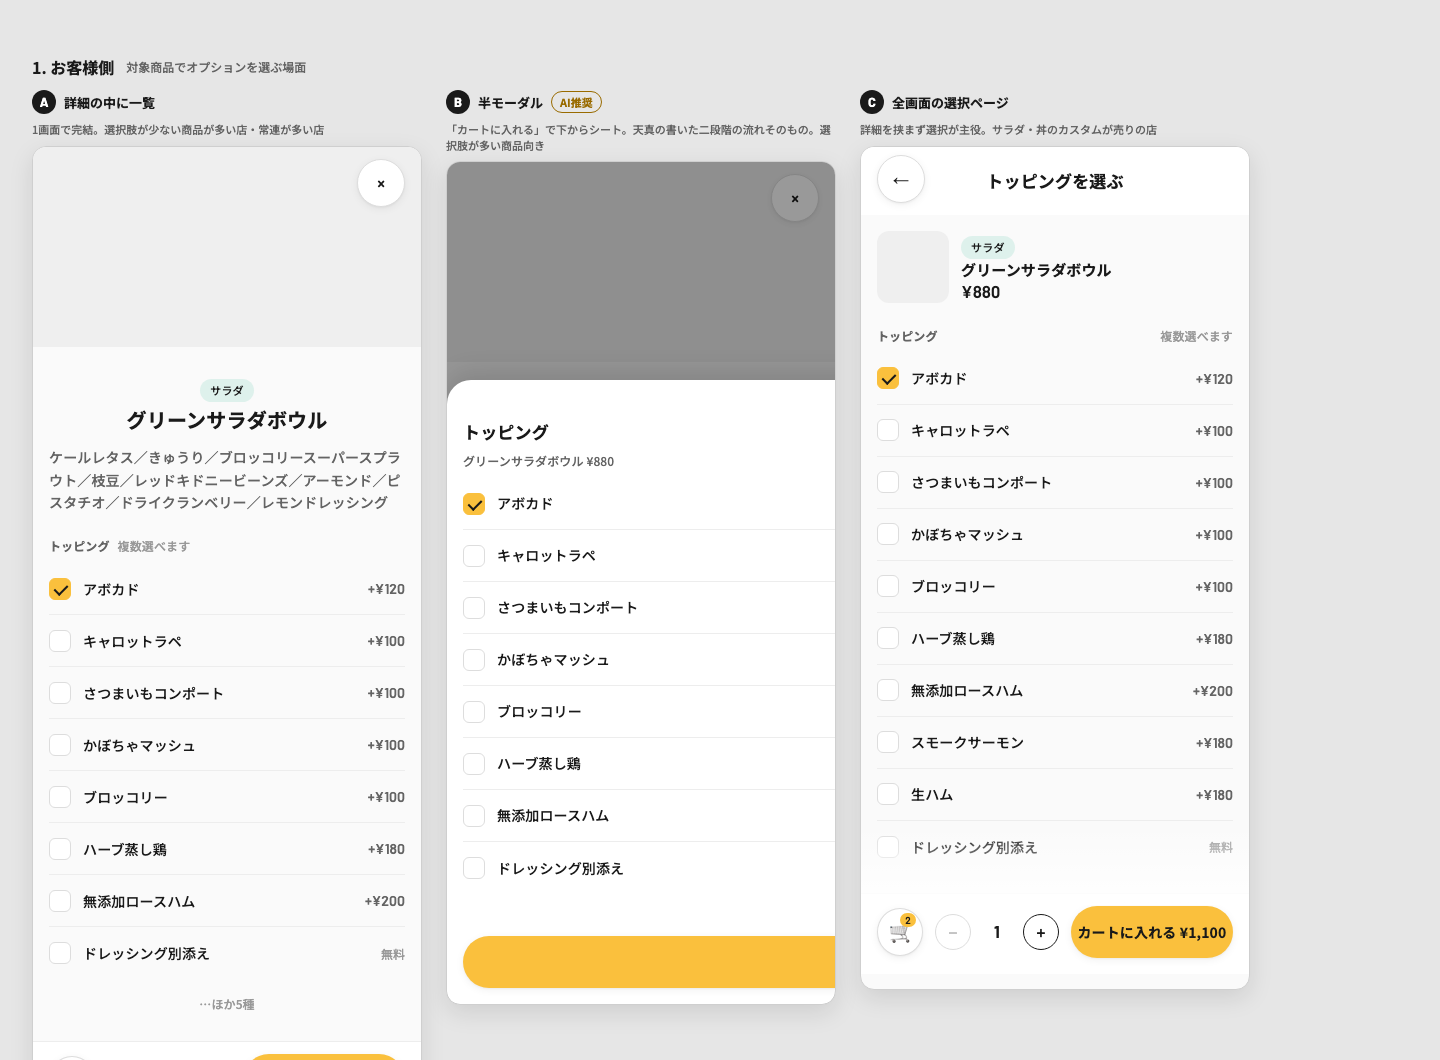
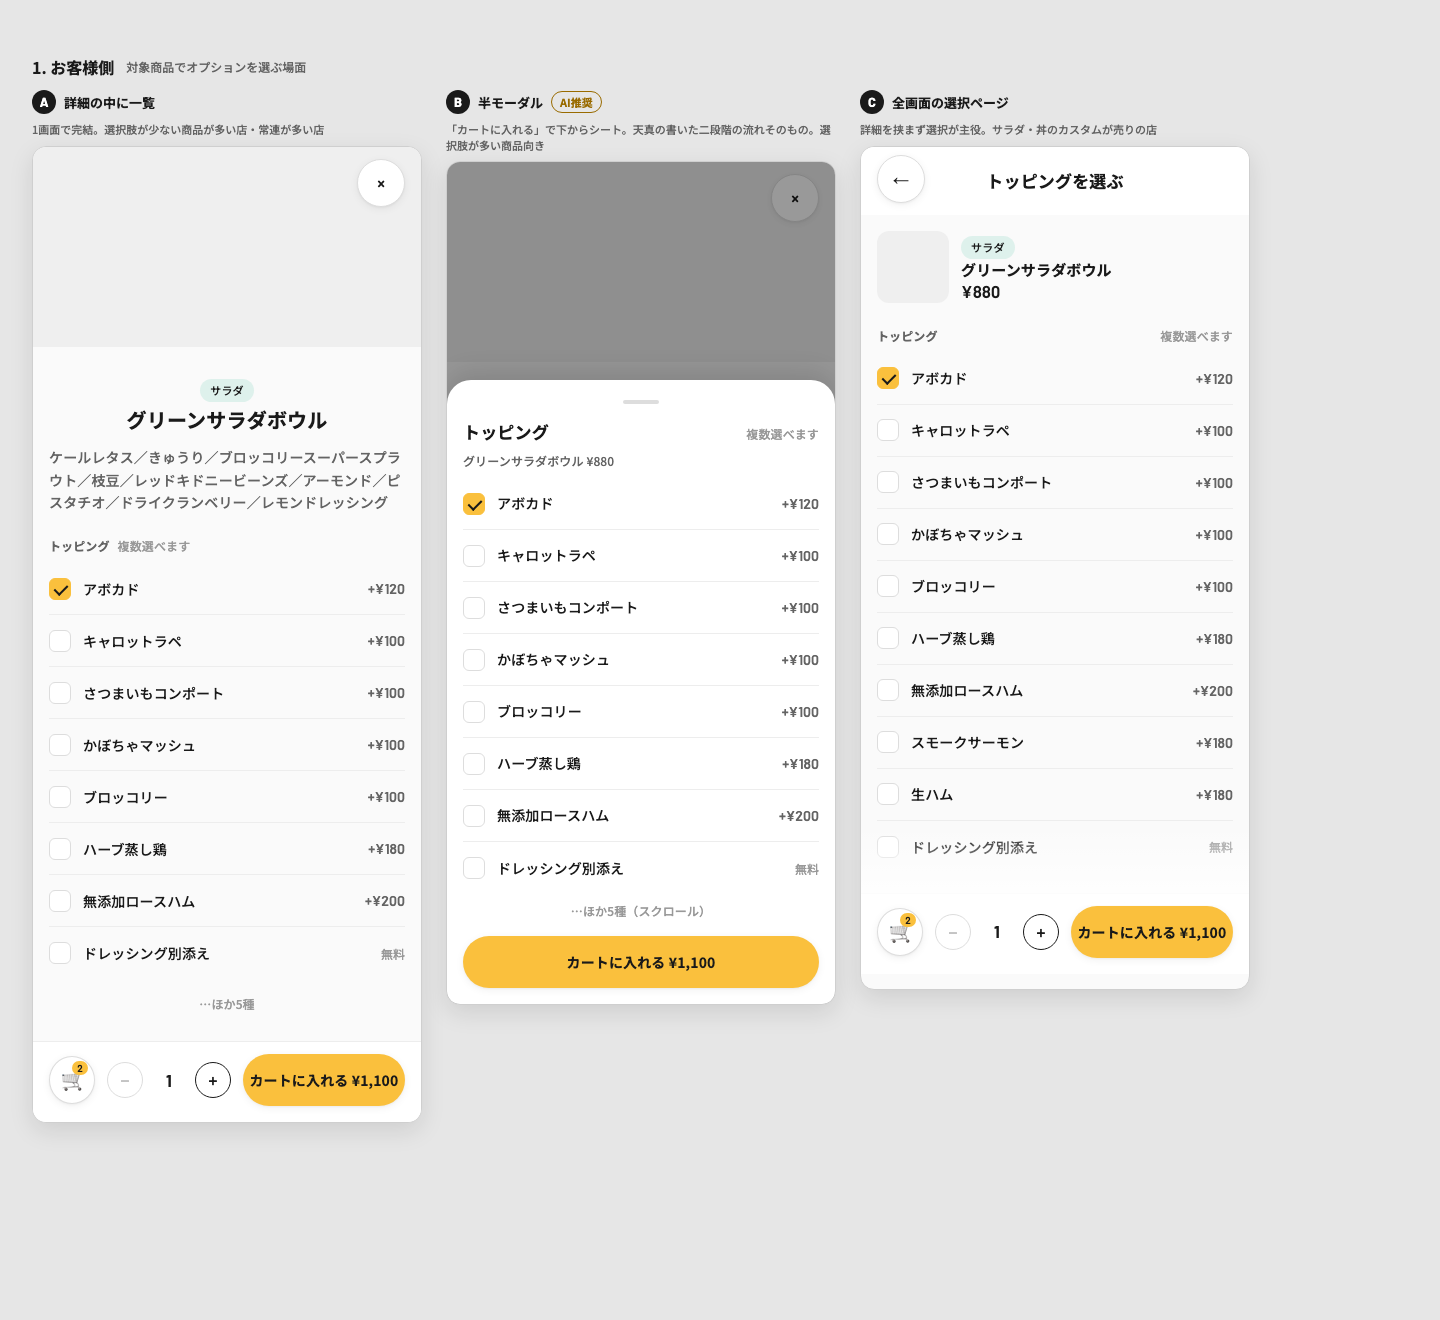
docs(verification): たたき台の CSS 衝突を直して撮り直す

diff --git a/.claude/verification/2026-09-04-menu-options/menu-options-3plans.html b/.claude/verification/2026-09-04-menu-options/menu-options-3plans.html
@@ -72,7 +72,7 @@ h2 small{font:500 12px/1.5 var(--jp);color:var(--t2)}
 .hdr{height:68px;background:#fff;display:flex;align-items:center;justify-content:center;position:relative}
 .hdr .b{position:absolute;left:16px;top:8px;width:48px;height:48px;border-radius:50%;background:#fff;border:1px solid var(--border);box-shadow:var(--shadow-card);display:flex;align-items:center;justify-content:center;font:500 16px var(--en)}
 .cartwrap{background:var(--warm);padding:24px 24px 16px;display:flex;flex-direction:column;gap:16px}
-.crow{position:relative;display:flex;gap:12px;align-items:flex-start;padding:16px;background:#fff;border-radius:16px;box-shadow:var(--shadow-card)}
+.crow{position:relative;display:flex;padding:16px;background:#fff;border-radius:16px;box-shadow:var(--shadow-card)}
 .crow .img{width:80px;height:80px;border-radius:12px;background:var(--bg3) center/cover;flex:0 0 80px}
 .crow .txt{flex:1;min-width:0;display:flex;flex-direction:column;gap:2px}
 .crow .pq{display:flex;align-items:center;justify-content:space-between;height:36px}
@@ -94,9 +94,9 @@ pre.paper .cut{color:#888}
 .segadmin{display:flex;gap:4px}.segadmin div{height:32px;min-width:44px;padding:0 12px;border-radius:8px;border:1px solid var(--border);display:flex;align-items:center;font:700 12px var(--jp);color:var(--t2);background:#fff}
 .segadmin div.on{background:var(--t1);color:#fff;border-color:transparent}
 
-.sheet-back{position:absolute;inset:0;background:rgba(0,0,0,.4)}
-.sheet{position:absolute;left:0;right:0;bottom:0;background:#fff;border-radius:24px 24px 0 0;padding:20px 16px 16px;box-shadow:0 -8px 24px rgba(0,0,0,.12)}
-.sheet .grab{width:36px;height:4px;border-radius:2px;background:var(--border);margin:0 auto 16px}
+.bsheet-back{position:absolute;inset:0;background:rgba(0,0,0,.4)}
+.bsheet{position:absolute;left:0;right:0;bottom:0;background:#fff;border-radius:24px 24px 0 0;padding:20px 16px 16px;box-shadow:0 -8px 24px rgba(0,0,0,.12)}
+.bsheet .grab{width:36px;height:4px;border-radius:2px;background:var(--border);margin:0 auto 16px}
 .optrow{display:flex;align-items:center;justify-content:space-between;height:52px;border-bottom:1px solid var(--divider)}
 .optrow:last-child{border-bottom:0}
 .optrow .l{display:flex;align-items:center;gap:12px}
@@ -115,6 +115,10 @@ pre.paper .cut{color:#888}
 .optedit .price{width:104px;text-align:right}
 .optedit .del{color:var(--t3);font:500 12px var(--en)}
 .addbtn{height:40px;border:1px dashed var(--border);border-radius:8px;display:flex;align-items:center;justify-content:center;font:700 13px var(--jp);color:var(--t2)}
+.crow .rowbody{flex:1;min-width:0;display:flex;flex-direction:column;gap:16px}
+.crow .rowtop{display:flex;gap:12px;align-items:center}
+.toggle.off{background:#fff;border:1px solid var(--border)}
+.toggle.off:after{left:1px;top:1px}
 .dimmed{opacity:.35}
 .fade{position:absolute;left:0;right:0;bottom:84px;height:80px;background:linear-gradient(transparent,#fff)}
 </style></head><body><div class="sheet-wrap sheetpage" style="padding:28px 32px 40px;width:1400px">
@@ -123,7 +127,7 @@ pre.paper .cut{color:#888}
 <section class="sec" data-sec="1"><h2>1. お客様側 <small>対象商品でオプションを選ぶ場面</small></h2>
 <div class="row">
 <div class="col"><p class="plan"><b>A</b><span class="nm">詳細の中に一覧</span><small>1画面で完結。選択肢が少ない商品が多い店・常連が多い店</small></p><div class="phone"><div class="kv" style="height:200px"><div class="close">×</div></div><div class="intro"><div style="display:flex;flex-direction:column;gap:4px;align-items:center;width:100%"><span class="tag lab" style="background:var(--tag-teal)">サラダ</span><div class="hl" style="text-align:center">グリーンサラダボウル</div></div><p class="body t2" style="margin:0;width:100%">ケールレタス／きゅうり／ブロッコリースーパースプラウト／枝豆／レッドキドニービーンズ／アーモンド／ピスタチオ／ドライクランベリー／レモンドレッシング</p></div><div class="timing" style="padding:0 16px;margin-top:24px"><div class="ttl"><span class="capb t2">トッピング</span><span class="cap t3">複数選べます</span></div><div><div class="optrow"><span class="l"><span class="chk on"></span><span class="body">アボカド</span></span><span class="optprice">+¥120</span></div><div class="optrow"><span class="l"><span class="chk "></span><span class="body">キャロットラペ</span></span><span class="optprice">+¥100</span></div><div class="optrow"><span class="l"><span class="chk "></span><span class="body">さつまいもコンポート</span></span><span class="optprice">+¥100</span></div><div class="optrow"><span class="l"><span class="chk "></span><span class="body">かぼちゃマッシュ</span></span><span class="optprice">+¥100</span></div><div class="optrow"><span class="l"><span class="chk "></span><span class="body">ブロッコリー</span></span><span class="optprice">+¥100</span></div><div class="optrow"><span class="l"><span class="chk "></span><span class="body">ハーブ蒸し鶏</span></span><span class="optprice">+¥180</span></div><div class="optrow"><span class="l"><span class="chk "></span><span class="body">無添加ロースハム</span></span><span class="optprice">+¥200</span></div><div class="optrow"><span class="l"><span class="chk"></span><span class="body">ドレッシング別添え</span></span><span class="optfree">無料</span></div></div><div class="cap t3" style="text-align:center;padding:8px 0">…ほか5種</div></div><div class="bar"><div class="cartbtn">🛒<i>2</i></div><div class="step" style="margin-left:auto"><b class="dis">−</b><span>1</span><b>+</b></div><div class="cta bodyb" style="width:170px">カートに入れる ¥1,100</div></div></div></div>
-<div class="col"><p class="plan"><b>B</b><span class="nm">半モーダル</span> <span class="rec">AI推奨</span><small>「カートに入れる」で下からシート。天真の書いた二段階の流れそのもの。選択肢が多い商品向き</small></p><div class="phone rel"><div class="kv" style="height:200px"><div class="close">×</div></div><div class="dimmed"><div class="intro"><div style="display:flex;flex-direction:column;gap:4px;align-items:center;width:100%"><span class="tag lab" style="background:var(--tag-teal)">サラダ</span><div class="hl" style="text-align:center">グリーンサラダボウル</div></div><p class="body t2" style="margin:0;width:100%">ケールレタス／きゅうり／ブロッコリースーパースプラウト／枝豆／レッドキドニービーンズ／アーモンド／ピスタチオ／ドライクランベリー／レモンドレッシング</p></div></div><div class="sheet-back"></div><div class="sheet"><div class="grab"></div><div style="display:flex;align-items:baseline;justify-content:space-between;margin-bottom:8px"><span class="hm">トッピング</span><span class="cap t3">複数選べます</span></div><div class="cap t2" style="margin-bottom:8px">グリーンサラダボウル ¥880</div><div><div class="optrow"><span class="l"><span class="chk on"></span><span class="body">アボカド</span></span><span class="optprice">+¥120</span></div><div class="optrow"><span class="l"><span class="chk "></span><span class="body">キャロットラペ</span></span><span class="optprice">+¥100</span></div><div class="optrow"><span class="l"><span class="chk "></span><span class="body">さつまいもコンポート</span></span><span class="optprice">+¥100</span></div><div class="optrow"><span class="l"><span class="chk "></span><span class="body">かぼちゃマッシュ</span></span><span class="optprice">+¥100</span></div><div class="optrow"><span class="l"><span class="chk "></span><span class="body">ブロッコリー</span></span><span class="optprice">+¥100</span></div><div class="optrow"><span class="l"><span class="chk "></span><span class="body">ハーブ蒸し鶏</span></span><span class="optprice">+¥180</span></div><div class="optrow"><span class="l"><span class="chk "></span><span class="body">無添加ロースハム</span></span><span class="optprice">+¥200</span></div><div class="optrow"><span class="l"><span class="chk"></span><span class="body">ドレッシング別添え</span></span><span class="optfree">無料</span></div></div><div class="cap t3" style="text-align:center;padding:8px 0">…ほか5種（スクロール）</div><div class="cta bodyb" style="width:100%;margin-top:8px">カートに入れる ¥1,100</div></div></div></div>
+<div class="col"><p class="plan"><b>B</b><span class="nm">半モーダル</span> <span class="rec">AI推奨</span><small>「カートに入れる」で下からシート。天真の書いた二段階の流れそのもの。選択肢が多い商品向き</small></p><div class="phone rel"><div class="kv" style="height:200px"><div class="close">×</div></div><div class="dimmed"><div class="intro"><div style="display:flex;flex-direction:column;gap:4px;align-items:center;width:100%"><span class="tag lab" style="background:var(--tag-teal)">サラダ</span><div class="hl" style="text-align:center">グリーンサラダボウル</div></div><p class="body t2" style="margin:0;width:100%">ケールレタス／きゅうり／ブロッコリースーパースプラウト／枝豆／レッドキドニービーンズ／アーモンド／ピスタチオ／ドライクランベリー／レモンドレッシング</p></div></div><div class="bsheet-back"></div><div class="bsheet"><div class="grab"></div><div style="display:flex;align-items:baseline;justify-content:space-between;margin-bottom:8px"><span class="hm">トッピング</span><span class="cap t3">複数選べます</span></div><div class="cap t2" style="margin-bottom:8px">グリーンサラダボウル ¥880</div><div><div class="optrow"><span class="l"><span class="chk on"></span><span class="body">アボカド</span></span><span class="optprice">+¥120</span></div><div class="optrow"><span class="l"><span class="chk "></span><span class="body">キャロットラペ</span></span><span class="optprice">+¥100</span></div><div class="optrow"><span class="l"><span class="chk "></span><span class="body">さつまいもコンポート</span></span><span class="optprice">+¥100</span></div><div class="optrow"><span class="l"><span class="chk "></span><span class="body">かぼちゃマッシュ</span></span><span class="optprice">+¥100</span></div><div class="optrow"><span class="l"><span class="chk "></span><span class="body">ブロッコリー</span></span><span class="optprice">+¥100</span></div><div class="optrow"><span class="l"><span class="chk "></span><span class="body">ハーブ蒸し鶏</span></span><span class="optprice">+¥180</span></div><div class="optrow"><span class="l"><span class="chk "></span><span class="body">無添加ロースハム</span></span><span class="optprice">+¥200</span></div><div class="optrow"><span class="l"><span class="chk"></span><span class="body">ドレッシング別添え</span></span><span class="optfree">無料</span></div></div><div class="cap t3" style="text-align:center;padding:8px 0">…ほか5種（スクロール）</div><div class="cta bodyb" style="width:100%;margin-top:8px">カートに入れる ¥1,100</div></div></div></div>
 <div class="col"><p class="plan"><b>C</b><span class="nm">全画面の選択ページ</span><small>詳細を挟まず選択が主役。サラダ・丼のカスタムが売りの店</small></p><div class="phone rel"><div class="hdr"><div class="b">←</div><span class="hm">トッピングを選ぶ</span></div><div style="display:flex;gap:12px;align-items:center;padding:16px"><div style="width:72px;height:72px;border-radius:12px;background:var(--bg3);flex:0 0 72px"></div><div style="flex:1;min-width:0"><span class="tag lab" style="background:var(--tag-teal)">サラダ</span><div class="hs">グリーンサラダボウル</div><div class="pm">¥880</div></div></div><div style="padding:0 16px"><div class="ttl" style="display:flex;justify-content:space-between;align-items:baseline;padding:8px 0"><span class="capb t2">トッピング</span><span class="cap t3">複数選べます</span></div><div class="optrow"><span class="l"><span class="chk on"></span><span class="body">アボカド</span></span><span class="optprice">+¥120</span></div><div class="optrow"><span class="l"><span class="chk "></span><span class="body">キャロットラペ</span></span><span class="optprice">+¥100</span></div><div class="optrow"><span class="l"><span class="chk "></span><span class="body">さつまいもコンポート</span></span><span class="optprice">+¥100</span></div><div class="optrow"><span class="l"><span class="chk "></span><span class="body">かぼちゃマッシュ</span></span><span class="optprice">+¥100</span></div><div class="optrow"><span class="l"><span class="chk "></span><span class="body">ブロッコリー</span></span><span class="optprice">+¥100</span></div><div class="optrow"><span class="l"><span class="chk "></span><span class="body">ハーブ蒸し鶏</span></span><span class="optprice">+¥180</span></div><div class="optrow"><span class="l"><span class="chk "></span><span class="body">無添加ロースハム</span></span><span class="optprice">+¥200</span></div><div class="optrow"><span class="l"><span class="chk "></span><span class="body">スモークサーモン</span></span><span class="optprice">+¥180</span></div><div class="optrow"><span class="l"><span class="chk "></span><span class="body">生ハム</span></span><span class="optprice">+¥180</span></div><div class="optrow"><span class="l"><span class="chk"></span><span class="body">ドレッシング別添え</span></span><span class="optfree">無料</span></div></div><div class="fade"></div><div class="bar"><div class="cartbtn">🛒<i>2</i></div><div class="step" style="margin-left:auto"><b class="dis">−</b><span>1</span><b>+</b></div><div class="cta bodyb" style="width:170px">カートに入れる ¥1,100</div></div></div></div>
 </div></section>
 <section class="sec" data-sec="2"><h2>2. どの案でも共通 <small>カート／伝票／厨房画面／管理画面のメニュー編集（トグル OFF → ON）</small></h2>
